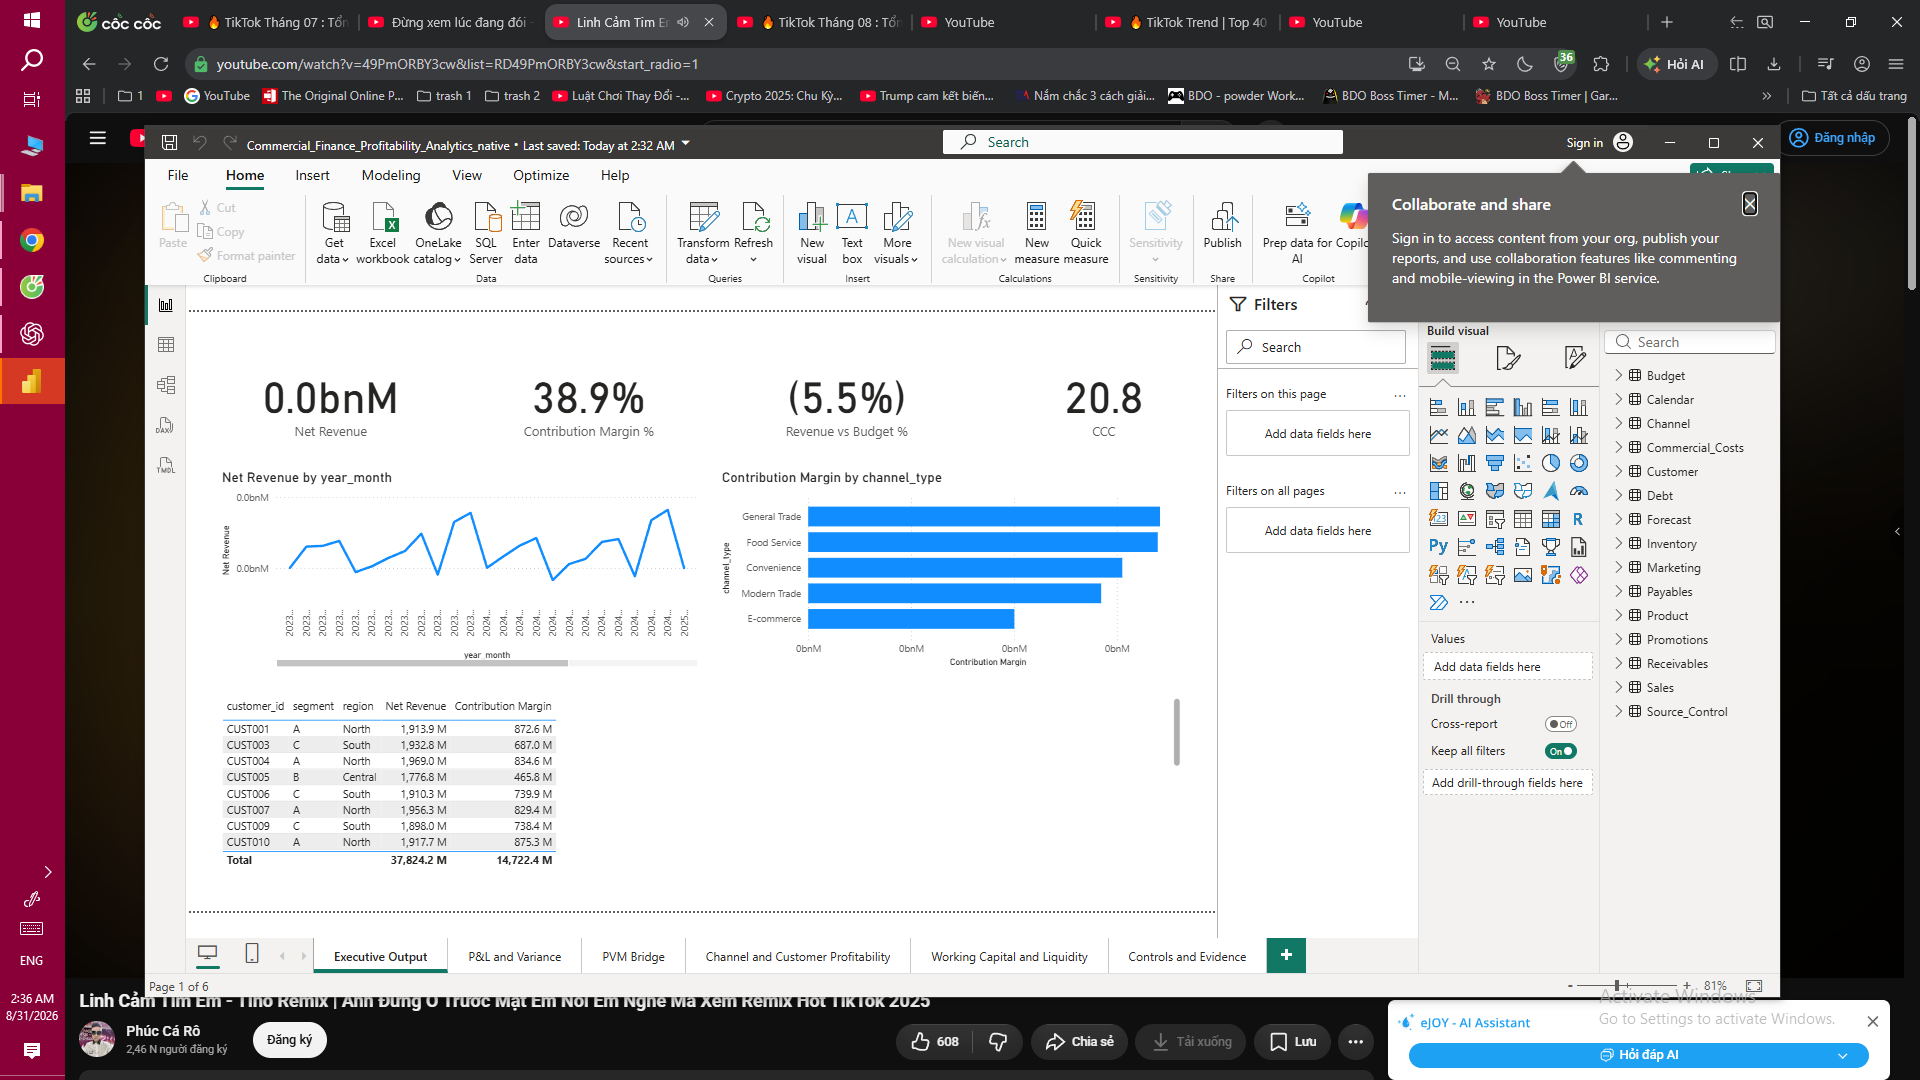
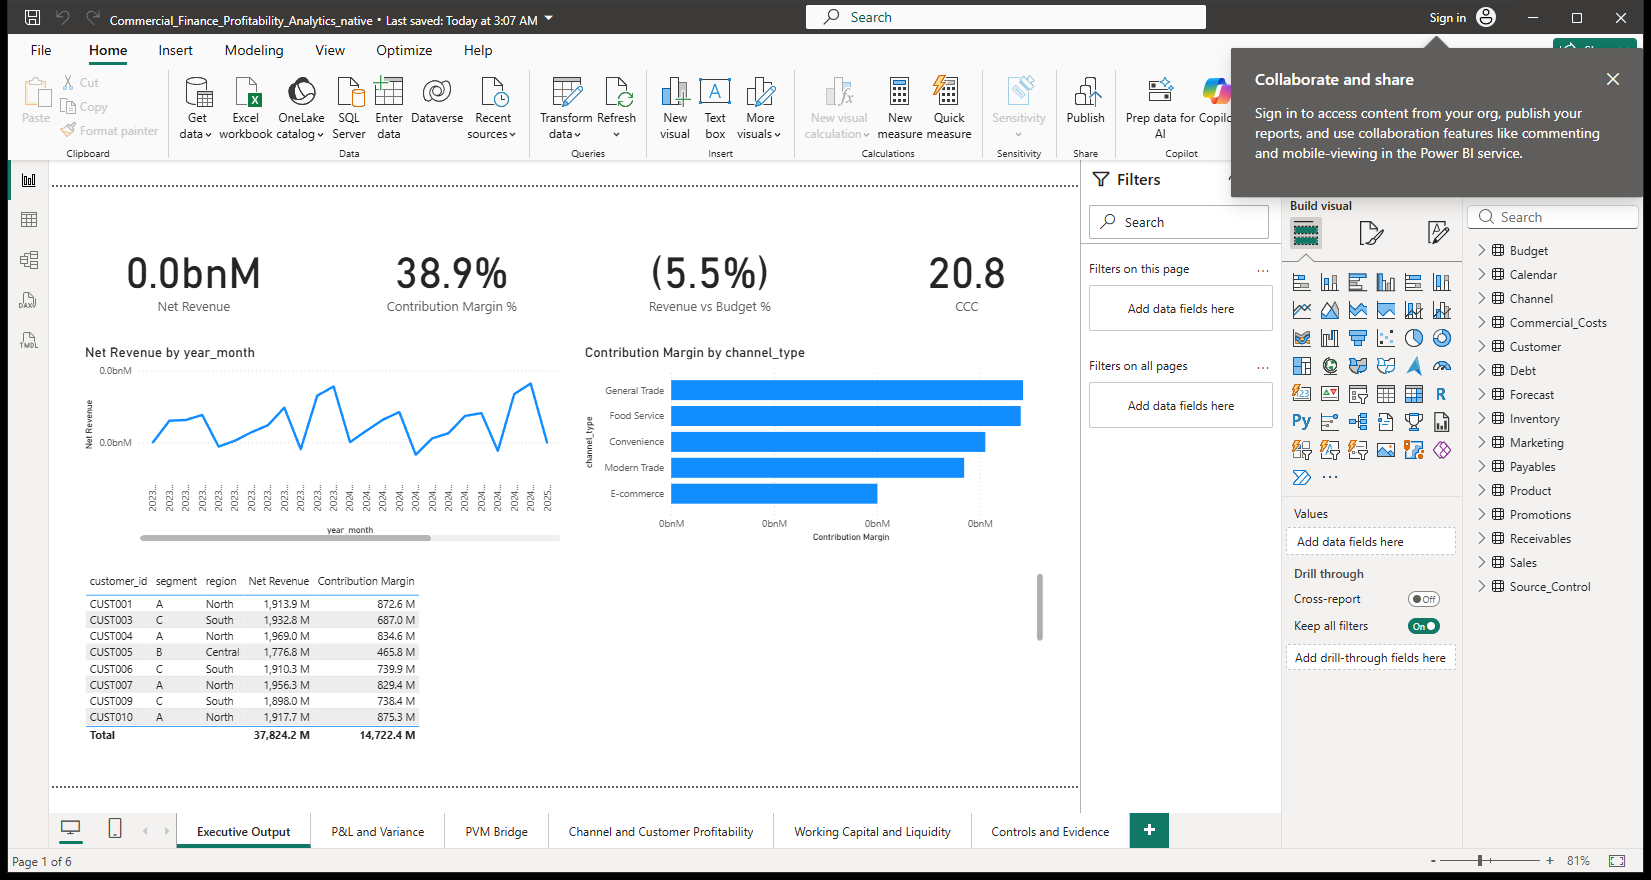
test: capture native Power BI pages

diff --git a/reports/POWER_BI_NATIVE_PAGE_CAPTURE_INDEX_2026-08-31.md b/reports/POWER_BI_NATIVE_PAGE_CAPTURE_INDEX_2026-08-31.md
@@ -1,0 +1,24 @@
+# Native PBIX page-capture index — 2026-08-31
+
+These screenshots were captured from the checked-in native PBIX in Power BI
+Desktop `2.157.879.0 (26.08)` after selecting each report page through the
+Desktop UI. They are visual evidence for review, not a substitute for the
+full QA-01–QA-18 sign-off log.
+
+| Page | Screenshot | Directly visible observations |
+|---|---|---|
+| Executive Output | [PNG](evidence/POWER_BI_NATIVE_PBIX_EXECUTIVE_OUTPUT_2026-08-31.png) | Net Revenue, Contribution Margin %, Revenue vs Budget %, CCC and customer contribution table are rendered. |
+| P&L and Variance | [PNG](evidence/POWER_BI_NATIVE_PBIX_PL_VARIANCE_2026-08-31.png) | Gross Profit, Gross Margin %, Revenue vs Forecast %, Trade Spend and actual/budget/forecast table are rendered. |
+| PVM Bridge | [PNG](evidence/POWER_BI_NATIVE_PBIX_PVM_BRIDGE_2026-08-31.png) | Price, Volume and Mix cards plus the `Units Total` table are rendered; baseline total is 1,256,859 units. |
+| Channel and Customer Profitability | [PNG](evidence/POWER_BI_NATIVE_PBIX_CHANNEL_CUSTOMER_2026-08-31.png) | Channel/segment contribution bars and customer revenue, contribution and margin table are rendered. |
+| Working Capital and Liquidity | [PNG](evidence/POWER_BI_NATIVE_PBIX_WORKING_CAPITAL_2026-08-31.png) | DSO 32.3, DIO 177.1, DPO 188.6, CCC 20.8 and AR/inventory/AP/debt visuals are rendered. |
+| Controls and Evidence | [PNG](evidence/POWER_BI_NATIVE_PBIX_CONTROLS_2026-08-31.png) | Sales Rows 6,480, Product Rows 36, Customer Rows 24, refresh timestamp and CTRL-01…CTRL-05 table are rendered; CTRL-05 remains OPEN for DirectQuery architecture. |
+
+## Interpretation
+
+The page captures demonstrate that the native PBIX renders the intended six-
+page finance flow after refresh. They support the observed native workflow and
+help a reviewer inspect the report quickly. They do not by themselves prove
+Excel tie-outs, scenario isolation across all filters, peer evidence gating,
+or production DirectQuery/APR behaviour; those controls remain explicitly
+separate in `powerbi/QA_TEST_MATRIX.md` and the release record.

diff --git a/reports/POWER_BI_CURRENT_RELEASE_STATUS_2026-08-31.md b/reports/POWER_BI_CURRENT_RELEASE_STATUS_2026-08-31.md
@@ -30,6 +30,7 @@ binary/source bundle is mirrored in the private Drive file linked below.
 | Refresh orchestration | `run_finance_refresh.py` + `prepare_powerbi_refresh.py` | PASS |
 | DirectQuery mechanics | Ephemeral LocalDB two-batch, 20-sample latency and 5-state health QA | PASS — local only |
 | Native PBIX observed artifact | `powerbi/releases/Commercial_Finance_Profitability_Analytics_native.pbix`; Desktop open, refresh, Save As and reopen observed | PASS — observed workflow |
+| Native page captures | Six report pages captured from the reopened PBIX; [capture index](POWER_BI_NATIVE_PAGE_CAPTURE_INDEX_2026-08-31.md) | PASS — visual evidence |
 | Native PBIX | Formal QA-01–QA-18 evidence sheet and full visual sign-off remain open | PENDING |
 | Production realtime | Requires cloud database, gateway/capacity and APR measurements | PENDING |
 

diff --git a/reports/POWER_BI_NATIVE_PBIX_DESKTOP_QA_2026-08-31.md b/reports/POWER_BI_NATIVE_PBIX_DESKTOP_QA_2026-08-31.md
@@ -35,6 +35,12 @@
 - [PBIT parameter load](evidence/POWER_BI_PBIT_PARAMETER_LOAD_2026-08-31.png)
 - [Native PBIX reopened in Desktop](evidence/POWER_BI_NATIVE_PBIX_REOPEN_2026-08-31.png)
 - [Executive Output after native save](evidence/POWER_BI_NATIVE_PBIX_EXECUTIVE_OUTPUT_2026-08-31.png)
+- [P&L and Variance](evidence/POWER_BI_NATIVE_PBIX_PL_VARIANCE_2026-08-31.png)
+- [PVM Bridge](evidence/POWER_BI_NATIVE_PBIX_PVM_BRIDGE_2026-08-31.png)
+- [Channel and Customer Profitability](evidence/POWER_BI_NATIVE_PBIX_CHANNEL_CUSTOMER_2026-08-31.png)
+- [Working Capital and Liquidity](evidence/POWER_BI_NATIVE_PBIX_WORKING_CAPITAL_2026-08-31.png)
+- [Controls and Evidence](evidence/POWER_BI_NATIVE_PBIX_CONTROLS_2026-08-31.png)
+- [Page-capture index](POWER_BI_NATIVE_PAGE_CAPTURE_INDEX_2026-08-31.md)
 
 ## Claim boundary
 

diff --git a/reports/PORTFOLIO_PROCESS_LOG_2026-08-31.md b/reports/PORTFOLIO_PROCESS_LOG_2026-08-31.md
@@ -124,6 +124,11 @@ still need a real Power BI Desktop or cloud workspace.
     implementation status and validation report now point to the observed
     native PBIX evidence while keeping the complete QA-01–QA-18 sign-off and
     production DirectQuery/APR acceptance explicitly pending.
+30. Reopened the committed PBIX in Desktop and captured all six report pages
+    through the UI: Executive Output, P&L and Variance, PVM Bridge, Channel and
+    Customer Profitability, Working Capital and Liquidity, and Controls and
+    Evidence. The page-capture index records the visible KPI/table evidence and
+    keeps the formal QA-01–QA-18 release rule separate.
 
 ## Evidence boundaries
 
